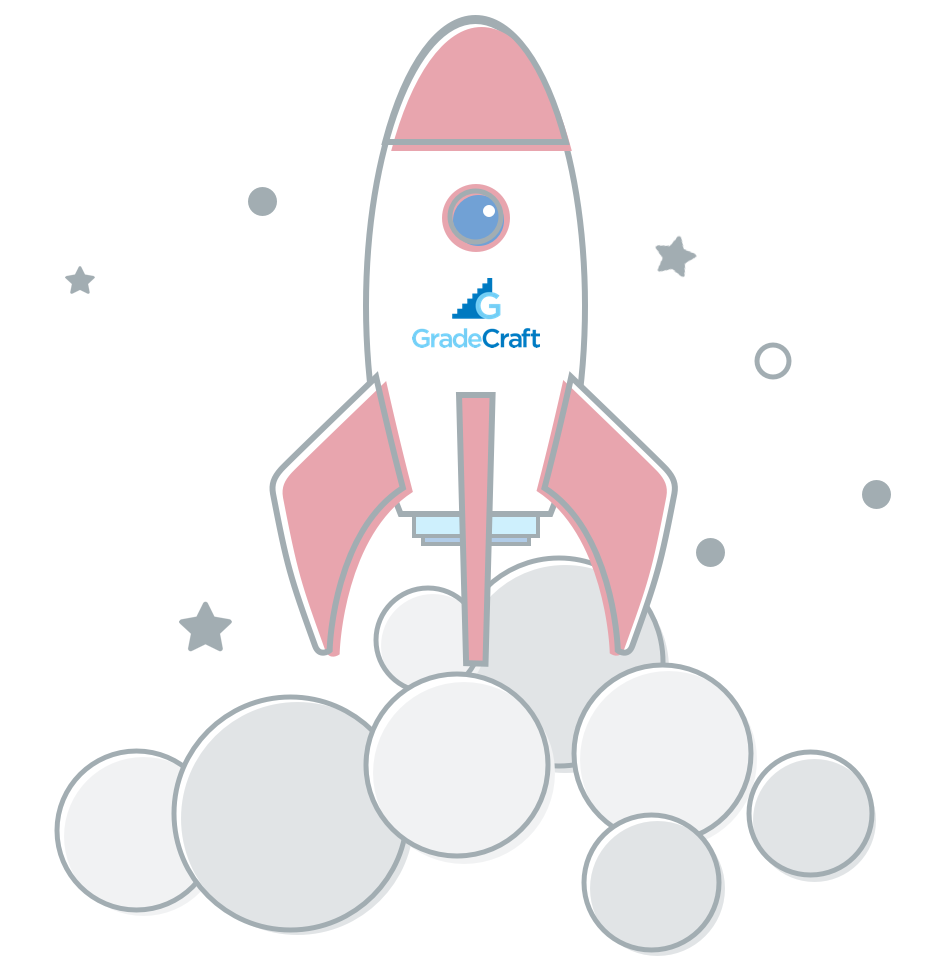
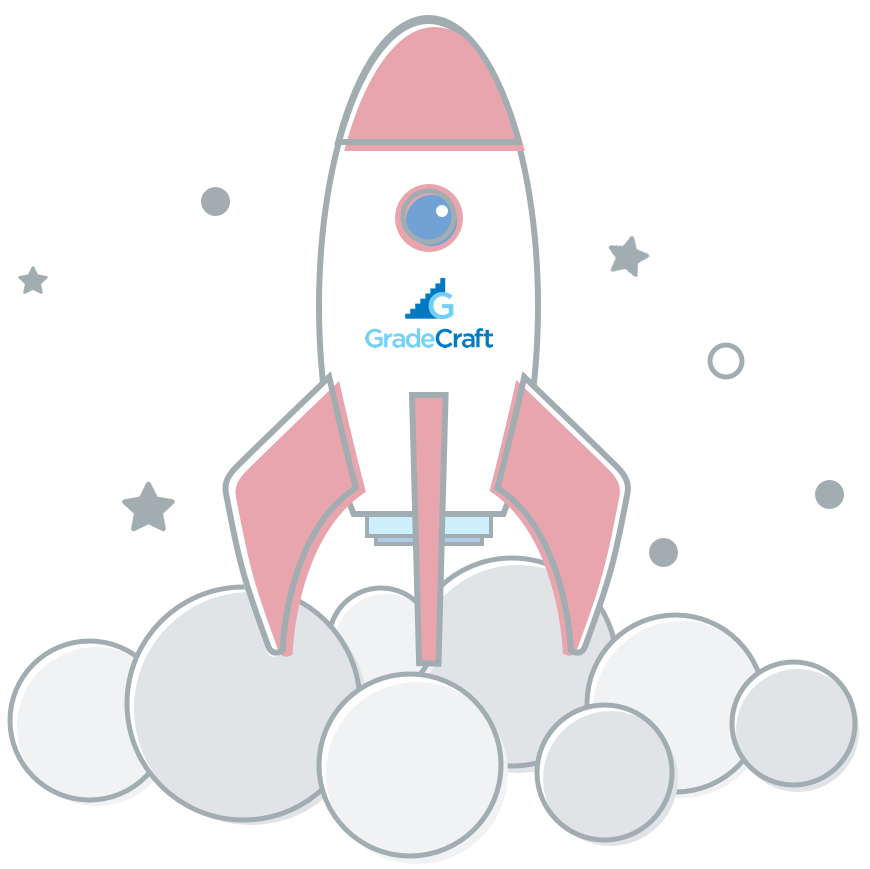
place no upcoming events graphic

diff --git a/app/assets/javascripts/student_dashboard.js b/app/assets/javascripts/student_dashboard.js
@@ -30,6 +30,7 @@ function setInitialEventSlide(eventJson){
   var events = eventJson.timeline.date;
   var todaysDate = new Date();
   var startIndex = null;
+  var noUpcomingEventsSlide = '<div class="event-slide last-slide"><div class="empty-state-wrapper large"><img src="/images/no-upcoming-events.png" class="empty-state-graphic" alt="No upcoming events"></div></div>'
 
   for (var i = 0; i < events.length; i++) {
     var eventEndDate = new Date(events[i].endDate);
@@ -40,7 +41,7 @@ function setInitialEventSlide(eventJson){
   }
 
   if (startIndex === null) {
-    $('.slide-container').append('<div class="event-slide last-slide"><p>This class has no upcoming events!</p></div>');
+    $('.slide-container').append(noUpcomingEventsSlide);
     startIndex = events.length;
   }
 

diff --git a/app/assets/stylesheets/pages/_dashboard.sass b/app/assets/stylesheets/pages/_dashboard.sass
@@ -305,9 +305,6 @@ ul.badge-grid
 
 .last-slide
   text-align: center
-  p
-    padding: 2rem
-    background-color: transparentize($color-blue-4, .8)
 
 /* Styles list of assignments due on bottom of course events module */
 ul.assignments-due

diff --git a/app/assets/stylesheets/components/_empty_state_graphics.sass b/app/assets/stylesheets/components/_empty_state_graphics.sass
@@ -1,6 +1,8 @@
 .empty-state-wrapper
   max-width: 200px
   margin: 0 auto
+  &.large
+    max-width: 300px
   .empty-state-graphic
     width: 100%
 
